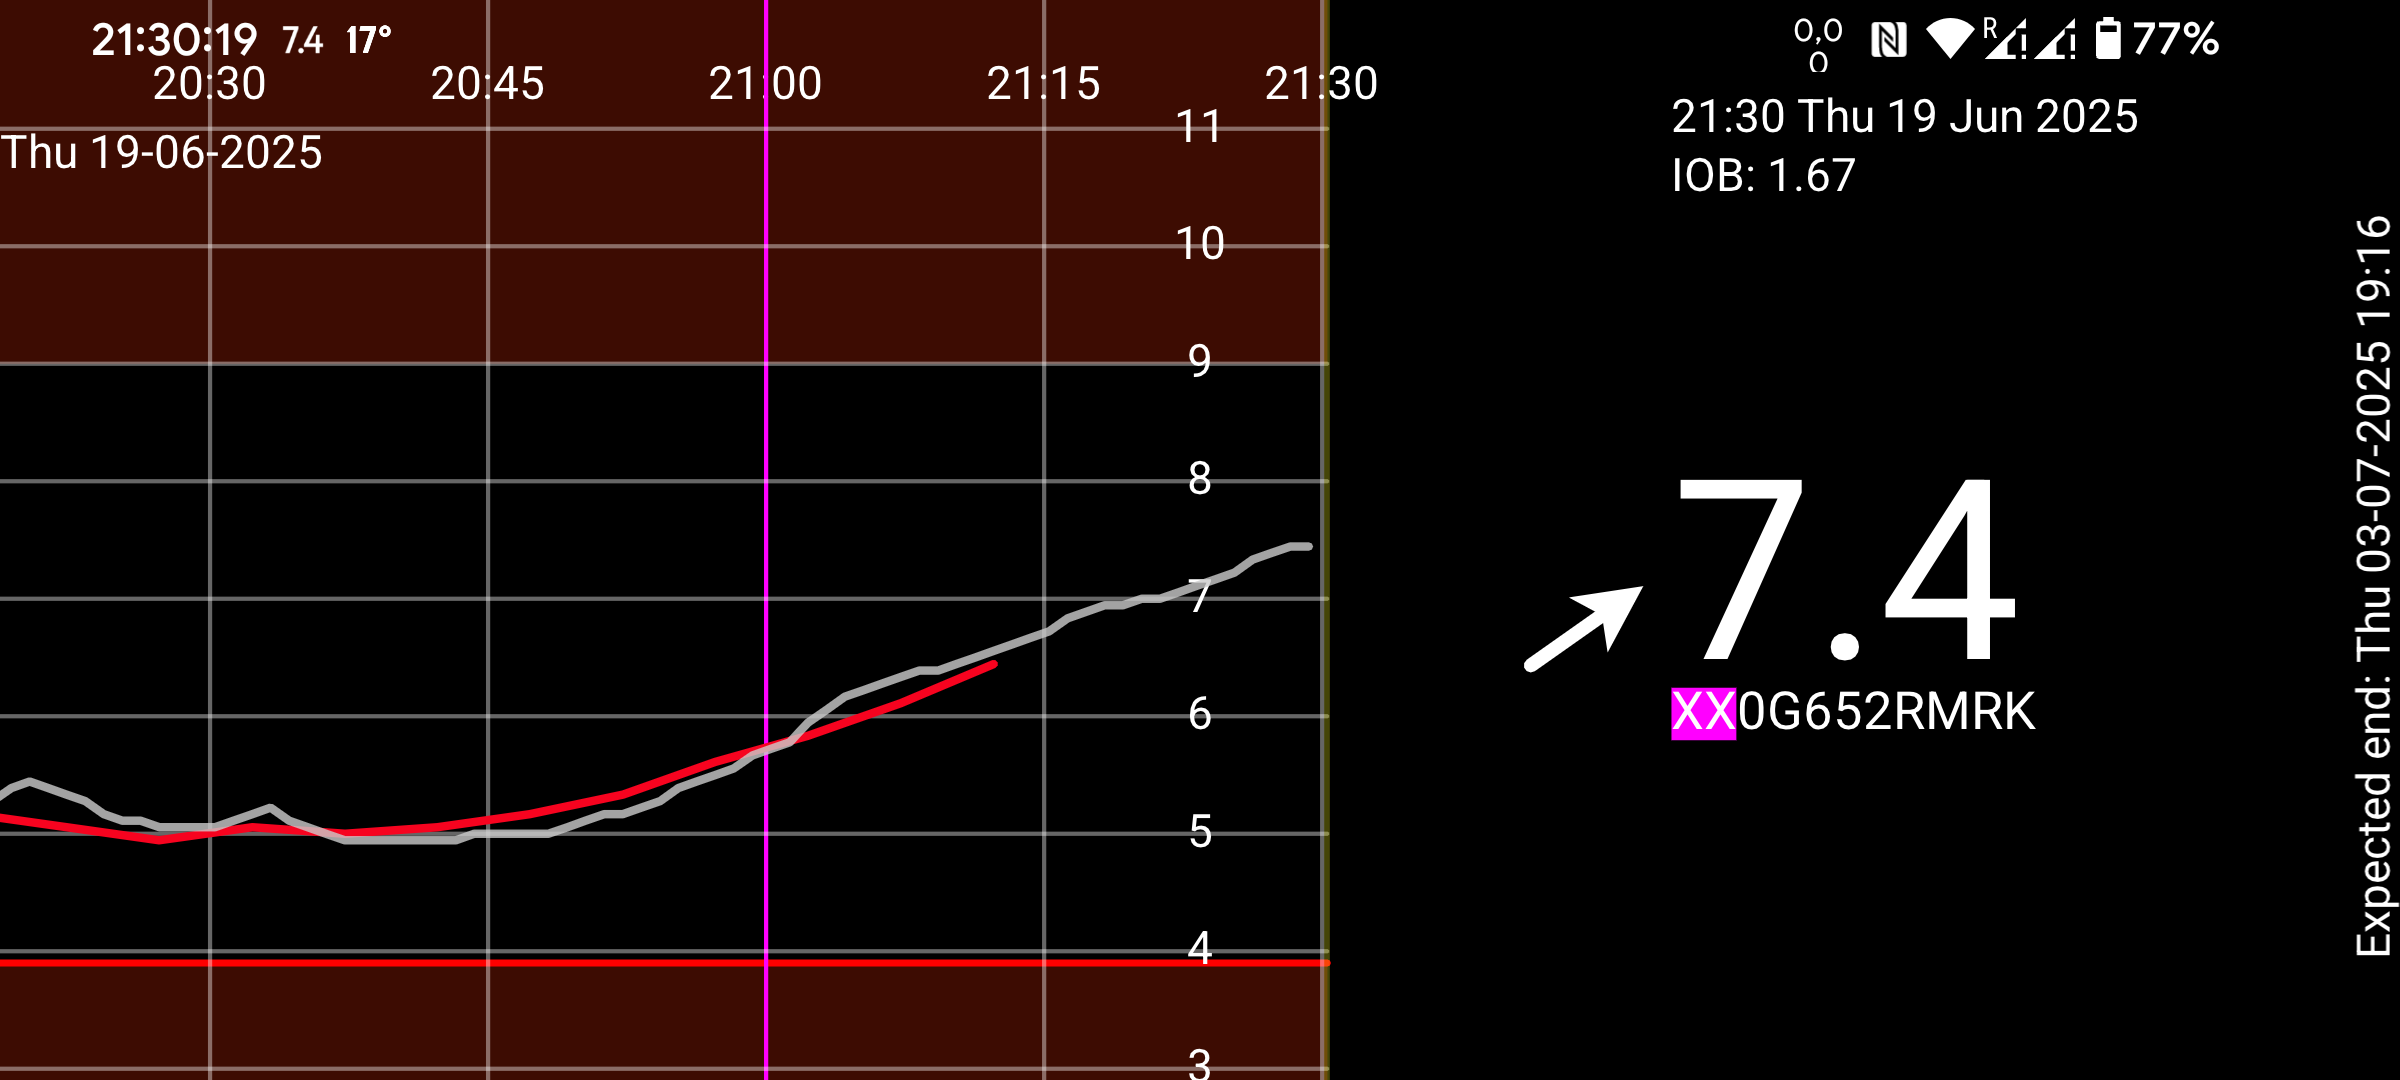
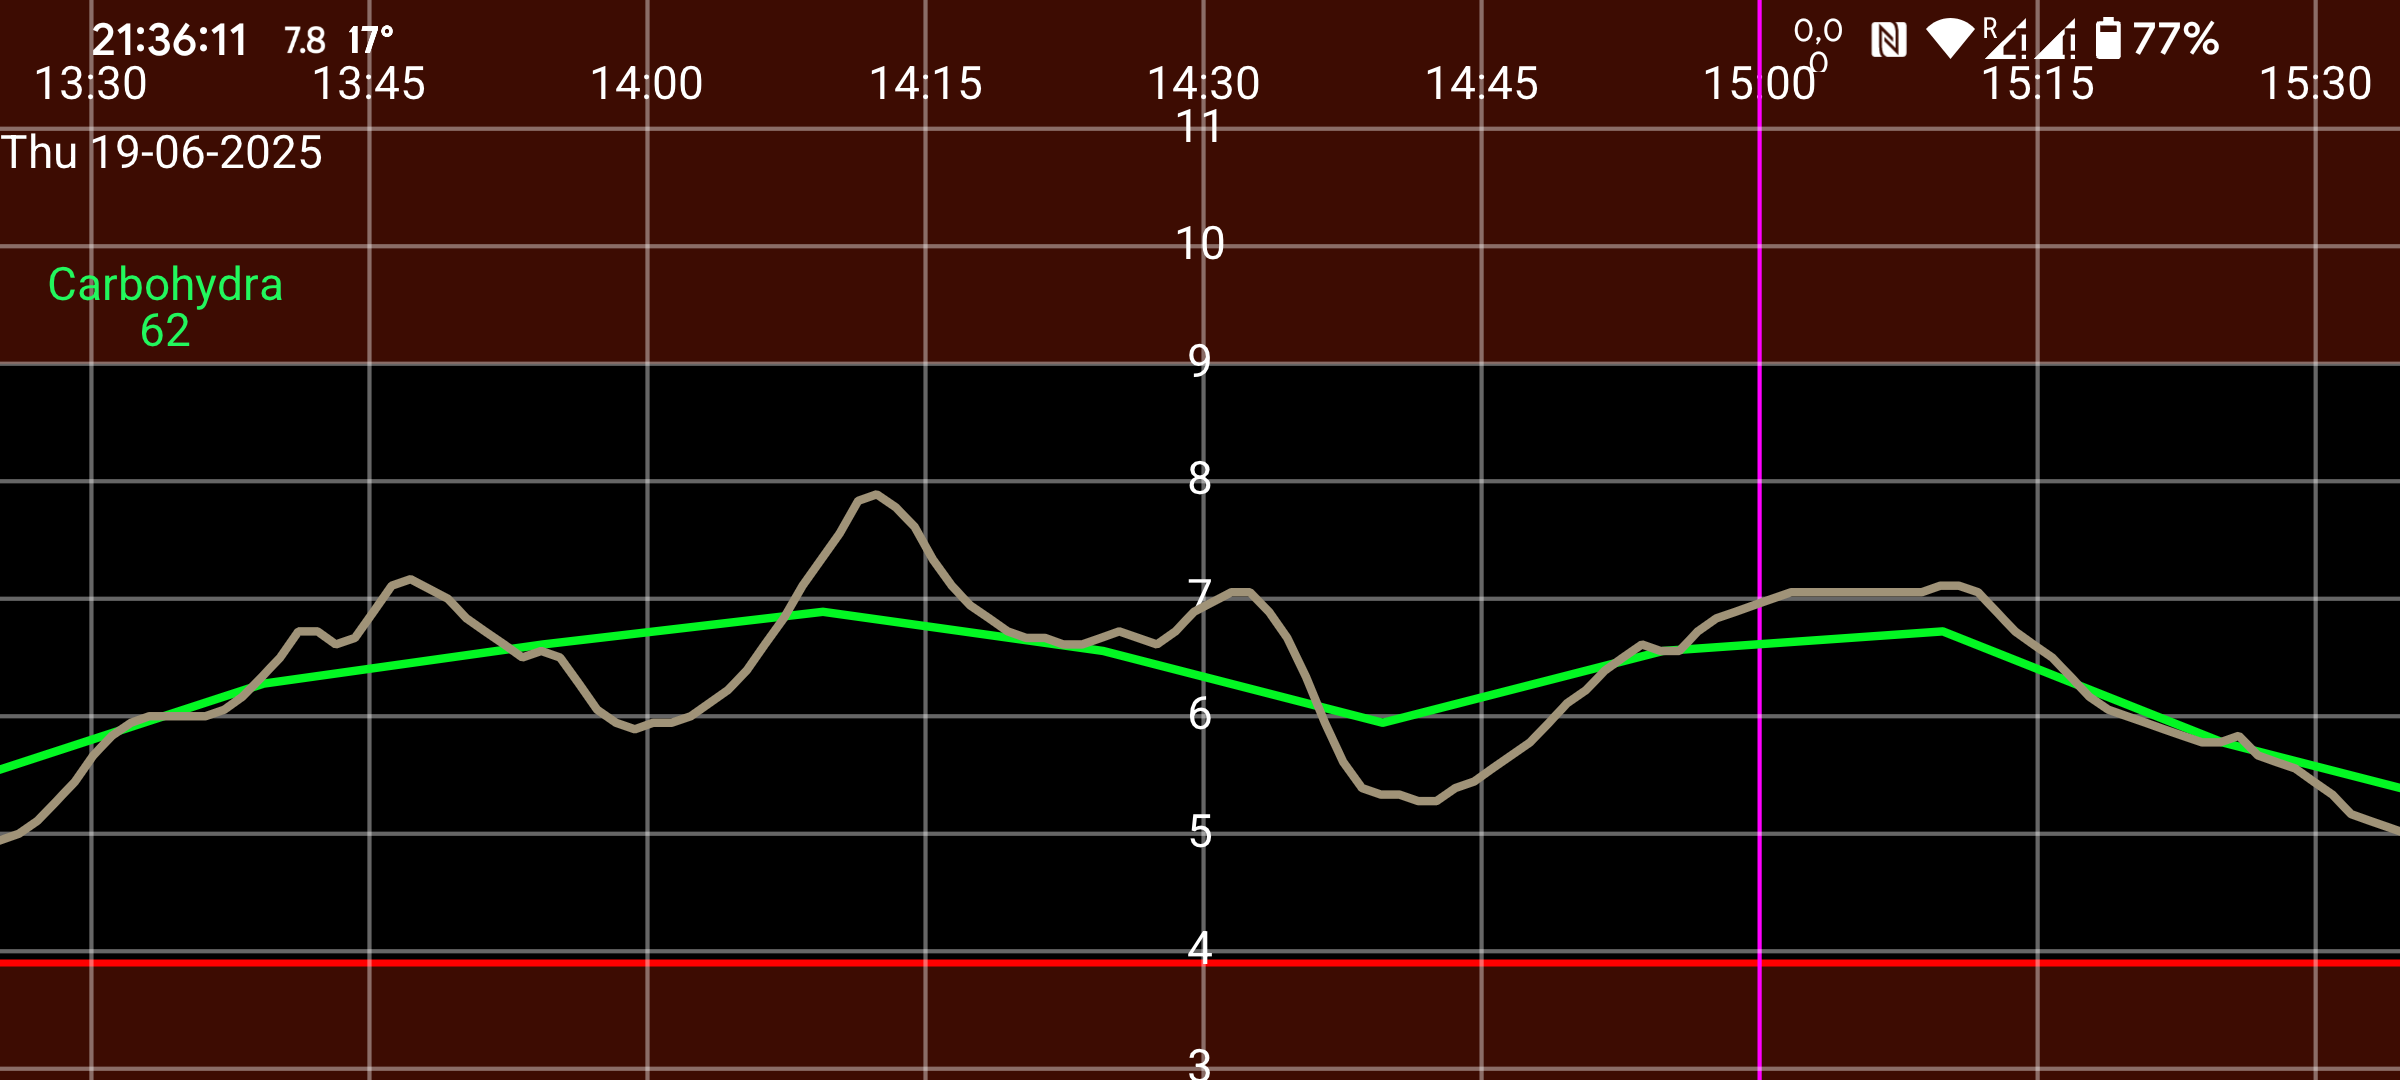
value

Changed region(s): [[0.0, 0.0, 1.0, 1.0], [0.0, 0.0, 0.3438, 0.0917], [0.0, 0.2444, 0.125, 0.3361]]

diff --git a/Juggluco/portrait/index.html b/Juggluco/portrait/index.html
@@ -27,7 +27,10 @@
 <img style="object-fit:contain; width:6.54cm;		    height:auto;" src="curve.png"> 
   </div>
 <div class="row">
-<img style="margin-top:9.35cm;object-fit:contain; width:6.54cm; height:auto;" id="stats" src="stats.png"> 
+<img style="margin-top:1.5cm;oobject-fit:contain; width:6.54cm;		    height:auto;" src="value.png"> 
+  </div>
+<div class="row">
+<img style="margin-top:1.5cm;object-fit:contain; width:6.54cm; height:auto;" id="stats" src="stats.png"> 
 </div>
 </div>
 <!-- <img style="margin-top:cm;object-fit:contain; width:7cm; height:auto;" id="stats" src="http://localhost:17580/hallo/x/stats?days=20&darkmode"> -->
